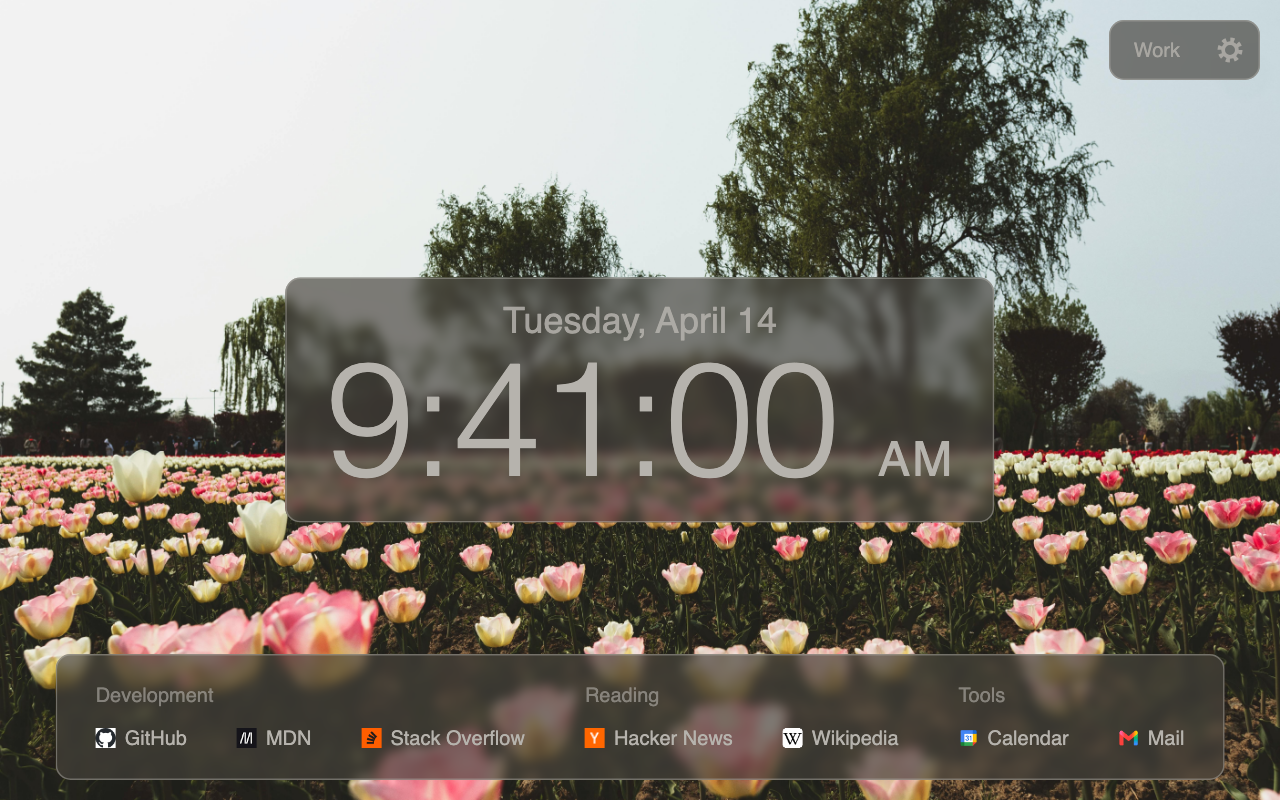
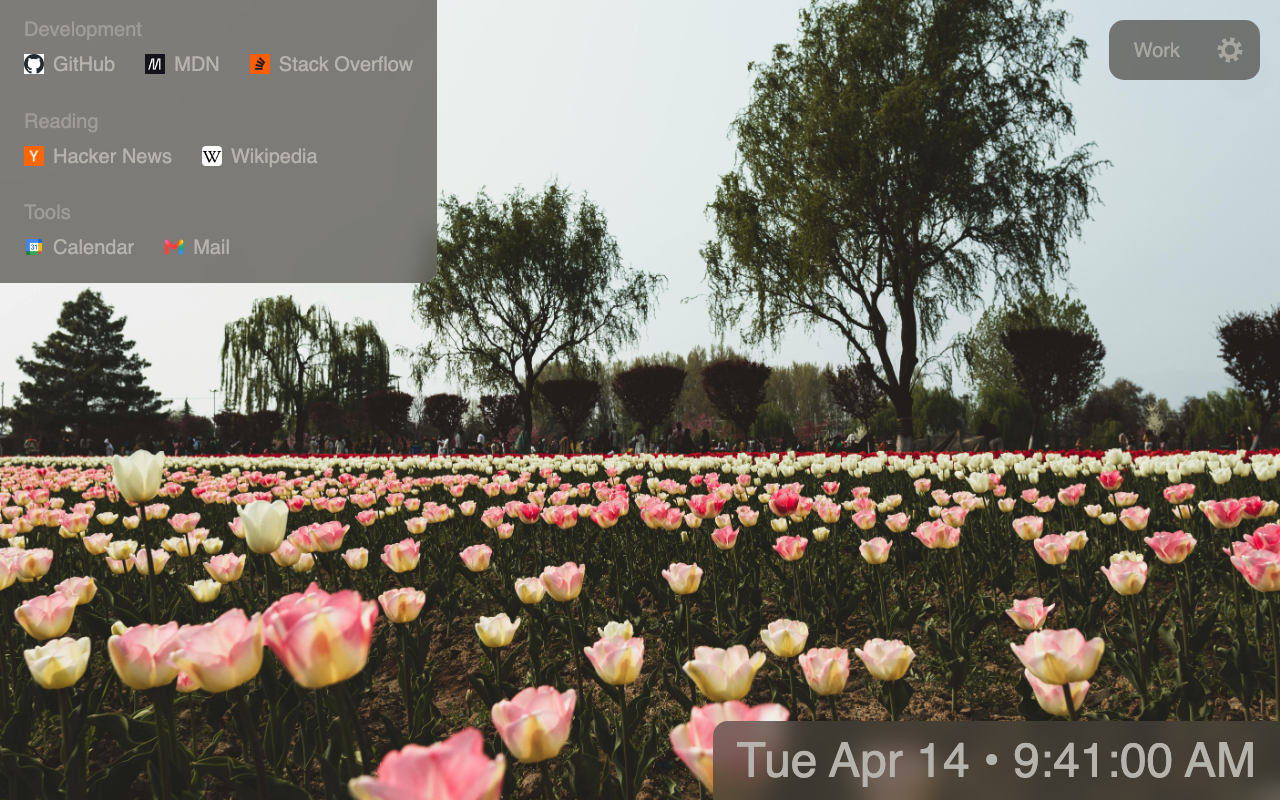
Drop the Dock and Sidebar layouts
Two layouts cover the range well enough: Corners and Center. Dock and
Sidebar come out of the layout list, the settings control and
panels.css, which leaves the lock-screen clock and the one-panel stack
as Center-only rules.

A saved Dock layout becomes Center (both stack a big clock over the
links) and a saved Sidebar becomes Corners (both keep the links on the
left). The two store screenshots that used them switch to Corners and
Center with a different preset and density.

diff --git a/panels.css b/panels.css
@@ -146,25 +146,27 @@ body.no-favicons a.link .favicon {
 /* Layouts. Corners is the default above: links top-left, clock
    bottom-right, each with its corner against the screen edge squared off. */
 
-/* The clock and links are wrapped in .stack. Corners and Dock place each
-   panel on its own, so the wrapper stays out of layout. */
+/* The clock and links are wrapped in .stack. Corners places each panel on
+   its own, so the wrapper stays out of layout. */
 .stack {
   display: contents;
 }
 
-/* Center and Sidebar stack the clock over the links in one column. The
-   wrapper becomes the single panel: two touching panels showed a seam of
-   photo between them whenever they landed on fractional pixels (browser
-   zoom, the scaled settings preview, the clock-size slider). */
-body[data-layout="center"],
-body[data-layout="sidebar"] {
+/* Center: the clock over the links in one column in the middle of the
+   screen. The wrapper becomes the single panel: two touching panels showed
+   a seam of photo between them whenever they landed on fractional pixels
+   (browser zoom, the scaled settings preview, the size slider). */
+body[data-layout="center"] {
   display: grid;
+  justify-content: center;
+  align-content: center;
 
   & .stack {
     display: flex;
     flex-direction: column;
     max-height: 100%;
     overflow: auto;
+    border-radius: var(--panel-radius);
     background: var(--panel-background);
     backdrop-filter: blur(var(--panel-blur));
     box-shadow: var(--panel-line);
@@ -181,72 +183,9 @@ body[data-layout="sidebar"] {
     overflow: visible;
   }
 
+  /* Lock-screen clock: the date on its own line above a large, light time */
   & .clock {
     order: -1;
-  }
-}
-
-/* Center: the column sits in the middle of the screen */
-body[data-layout="center"] {
-  justify-content: center;
-  align-content: center;
-
-  & .stack {
-    border-radius: var(--panel-radius);
-  }
-}
-
-/* Dock: a large clock in the middle, links in a bar along the bottom */
-body[data-layout="dock"] {
-  & .clock {
-    top: 50%;
-    left: 50%;
-    bottom: auto;
-    right: auto;
-    transform: translate(-50%, -50%);
-    border-radius: var(--panel-radius);
-
-    & > span {
-      white-space: nowrap;
-    }
-  }
-
-  & .link-groups {
-    position: fixed;
-    bottom: 1rem;
-    left: 50%;
-    transform: translateX(-50%);
-    display: flex;
-    gap: 1rem;
-    max-width: calc(100% - 2rem);
-    border-radius: var(--panel-radius);
-
-    & .group,
-    & .group:last-child {
-      margin: 0;
-    }
-
-    & a.link {
-      white-space: nowrap;
-    }
-  }
-}
-
-/* Sidebar: a full-height column on the left */
-body[data-layout="sidebar"] {
-  grid-template-columns: minmax(0, max-content);
-
-  & .stack {
-    border-radius: 0 var(--panel-radius) var(--panel-radius) 0;
-  }
-}
-
-/* Lock-screen clock for the layouts where the clock is a centerpiece: the
-   date on its own line above a large, light time */
-body[data-layout="center"],
-body[data-layout="sidebar"],
-body[data-layout="dock"] {
-  & .clock {
     /* x matches the links' text inset, so the divider lines up with them */
     --clock-pad-y: 1.1rem;
     --clock-pad-x: 2rem;
@@ -256,6 +195,18 @@ body[data-layout="dock"] {
       display: flex;
       flex-direction: column;
       align-items: center;
+    }
+
+    /* Divider between clock and links, inset by the clock's side padding;
+       it follows the edge setting, so it's invisible with no outline */
+    &::after {
+      content: "";
+      position: absolute;
+      left: calc(var(--clock-pad-x) * var(--density, 1));
+      right: calc(var(--clock-pad-x) * var(--density, 1));
+      bottom: 0;
+      height: var(--panel-line-width);
+      background: var(--panel-line-color);
     }
   }
 
@@ -281,22 +232,6 @@ body[data-layout="dock"] {
     font-size: 0.3em;
     font-weight: 500;
     letter-spacing: 0.05em;
-  }
-}
-
-/* Divider between clock and links in the stacked layouts, inset by the
-   clock's side padding; it follows the edge setting, so it's invisible with
-   no outline */
-body[data-layout="center"],
-body[data-layout="sidebar"] {
-  & .clock::after {
-    content: "";
-    position: absolute;
-    left: calc(var(--clock-pad-x) * var(--density, 1));
-    right: calc(var(--clock-pad-x) * var(--density, 1));
-    bottom: 0;
-    height: var(--panel-line-width);
-    background: var(--panel-line-color);
   }
 }
 

diff --git a/storage.js b/storage.js
@@ -83,6 +83,13 @@ const setKey = (name) => SYNC_SET_PREFIX + name;
 // page saves meta + set on every change).
 let usingUnsavedDefaults = false;
 
+// Dock and Sidebar were layouts briefly: Dock stacked a big clock over its
+// links like Center does, and Sidebar kept the links on the left like
+// Corners. Returns the replacement, or nothing for a current layout.
+const RETIRED_LAYOUTS = { dock: "center", sidebar: "corners" };
+const keptLayout = (layout) =>
+  RETIRED_LAYOUTS[layout] ? { layout: RETIRED_LAYOUTS[layout] } : {};
+
 const backfillSettings = (meta) => {
   const stored = meta.settings ?? {};
   // Backfill settings added after the meta was first written; look is merged
@@ -93,7 +100,7 @@ const backfillSettings = (meta) => {
   meta.settings = {
     ...defaultSettings,
     ...current,
-    look: { ...defaultSettings.look, ...storedLook },
+    look: { ...defaultSettings.look, ...storedLook, ...keptLayout(storedLook.layout) },
     // Links and clock used to have separate sizes; the links size carries
     // over as the shared one
     scale: stored.scale ?? linksScale ?? defaultSettings.scale,

diff --git a/render.js b/render.js
@@ -136,9 +136,9 @@ const LONG_DATE = new Intl.DateTimeFormat(undefined, {
   month: "long",
   day: "numeric",
 });
-// Layouts where the clock is a centerpiece show it lock-screen style: the
+// Layouts where the clock heads the links show it lock-screen style: the
 // date on its own line above a large time
-const STACKED_CLOCK_LAYOUTS = ["center", "sidebar", "dock"];
+const STACKED_CLOCK_LAYOUTS = ["center"];
 
 // The clock's date and time as separate strings; the stacked style gets the
 // spelled-out date, the inline style the short one
@@ -266,7 +266,7 @@ const LOOK_EDGES = ["none", "line"];
 // How much room the panels give their content: link padding, space between
 // link groups, and the clock's padding
 const LOOK_DENSITIES = ["compact", "comfortable", "spacious"];
-const LOOK_LAYOUTS = ["corners", "center", "dock", "sidebar"];
+const LOOK_LAYOUTS = ["corners", "center"];
 const LOOK_PRESETS = [
   { name: "Clear glass", style: "auto", blur: 6, edge: "line", corners: 0.75 },
   { name: "Frosted", style: "auto", blur: 12, edge: "none", corners: 1 },

diff --git a/options.html b/options.html
@@ -272,6 +272,10 @@
         overflow: hidden;
       }
 
+      .segmented-2 {
+        grid-template-columns: repeat(2, 1fr);
+      }
+
       .segmented-3 {
         grid-template-columns: repeat(3, 1fr);
       }
@@ -603,11 +607,9 @@
         <section data-panel="look">
           <div class="field">
             <span class="field-label">Layout</span>
-            <div class="segmented" id="look-layout">
+            <div class="segmented segmented-2" id="look-layout">
               <button data-layout="corners">Corners</button>
               <button data-layout="center">Center</button>
-              <button data-layout="dock">Dock</button>
-              <button data-layout="sidebar">Sidebar</button>
             </div>
           </div>
 
